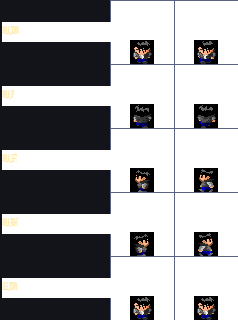
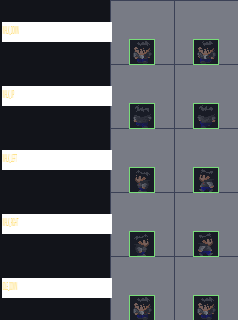
fix: 스프라이트 실제 도트 24x24 @(20,40) 명시 — LLM 프롬프트/주석/검증기 반영
- 아틀라스 셀 64x64는 패딩 포함 컨테이너, 실제 캐릭터는 24x24 도트
- 프롬프트: 8배 확대 작업법 + 셀 채우기 금지 + 마젠타 키컬러 금지 명시
- 주석 PNG: 도트 영역 녹색 상자 + 패딩 음영 표시
- validate_retouch_sheet.py: 셀별 도트 bbox 일치 검사 추가

diff --git a/remakes/sidol_godot/tools/convert/validate_retouch_sheet.py b/remakes/sidol_godot/tools/convert/validate_retouch_sheet.py
@@ -1,0 +1,128 @@
+"""그래픽 LLM 납품 스프라이트 시트 검증기.
+
+검사 항목:
+  1) 크기 = 원본 아틀라스와 동일 (128x320)
+  2) 배경 완전 투명 — 테두리에 불투명 픽셀 없음, 마젠타/키컬러 감지
+  3) 셀별 실루엣 드리프트 — 원본 같은 셀과 불투명 픽셀 수/중심/bbox 비교
+     (임계값 초과 시 재창작 판정)
+
+사용: python tools/convert/validate_retouch_sheet.py <납품.png>
+exit 0=통과 / 1=반려
+"""
+from __future__ import annotations
+import json
+import os
+import sys
+from PIL import Image
+
+ROOT = os.path.normpath(os.path.join(os.path.dirname(__file__), "..", ".."))
+ATLAS = os.path.join(ROOT, "assets", "sprites", "player_original.png")
+META = os.path.join(ROOT, "assets", "sprites", "player_original.json")
+DRIFT_LIMIT = 0.20   # 불투명 픽셀 수 허용 편차
+MAGENTA = (255, 0, 255)
+
+
+def main() -> None:
+    if len(sys.argv) < 2:
+        print("사용: python validate_retouch_sheet.py <납품.png>")
+        sys.exit(2)
+    sub_path = sys.argv[1]
+    errors: list[str] = []
+    warns: list[str] = []
+
+    orig = Image.open(ATLAS).convert("RGBA")
+    with open(os.path.join(ROOT, "assets", "sprites", "player_original.json"),
+              encoding="utf-8") as fh:
+        meta = json.load(fh)
+    cell = int(meta["cell"])
+    cols = int(meta["cols"])
+    rows = orig.height // cell
+
+    sub = Image.open(sub_path).convert("RGBA")
+    # 1) 크기
+    if sub.size != orig.size:
+        errors.append(f"크기 불일치: {sub.size} != {orig.size}")
+
+    # 2) 배경 — 테두리 불투명/마젠타 검사
+    px = sub.load()
+    w, h = sub.size
+    border_opaque = 0
+    magenta_cnt = 0
+    for x in range(w):
+        for y in (0, h - 1):
+            if px[x, y][3] > 0:
+                border_opaque += 1
+                if px[x, y][:3] == MAGENTA:
+                    magenta_cnt += 1
+    for y in range(h):
+        for x in (0, w - 1):
+            if px[x, y][3] > 0:
+                border_opaque += 1
+                if px[x, y][:3] == MAGENTA:
+                    magenta_cnt += 1
+    if border_opaque > 0:
+        errors.append(f"테두리에 불투명 픽셀 {border_opaque}개 — 배경 미투명")
+    if magenta_cnt > 0:
+        errors.append(f"마젠타(키컬러) 픽셀 {magenta_cnt}개 — 완전 투명으로 교체 필요")
+    # 내부 마젠타도 카운트(색 규약 위반)
+    for y in range(1, h - 1):
+        for x in range(1, w - 1):
+            if px[x, y][:3] == MAGENTA and px[x, y][3] > 0:
+                magenta_cnt += 1
+    if magenta_cnt > border_opaque:
+        warns.append(f"내부 마젠타 픽셀 다수: {magenta_cnt}")
+
+    # 3) 셀별 실루엣 드리프트 + 도트 영역(24x24 @ 오프셋) 검사
+    op = sub.load()
+    og = orig.load()
+
+    def content_bbox(img_px, box):
+        xs, ys = [], []
+        for y in range(box[1], box[3]):
+            for x in range(box[0], box[2]):
+                if img_px[x, y][3] > 0:
+                    xs.append(x - box[0])
+                    ys.append(y - box[1])
+        if not xs:
+            return None
+        return (min(xs), min(ys), max(xs) - min(xs) + 1, max(ys) - min(ys) + 1)
+
+    for r in range(rows):
+        for c in range(cols):
+            box = (c * cell, r * cell, (c + 1) * cell, (r + 1) * cell)
+            o_cnt = sum(1 for y in range(box[1], box[3]) for x in range(box[0], box[2])
+                        if og[x, y][3] > 0)
+            s_cnt = sum(1 for y in range(box[1], box[3]) for x in range(box[0], box[2])
+                        if op[x, y][3] > 0)
+            if o_cnt == 0 and s_cnt == 0:
+                continue
+            if o_cnt == 0 or s_cnt == 0:
+                errors.append(f"셀({r},{c}) 한쪽만 비어있음 orig={o_cnt} sub={s_cnt}")
+                continue
+            drift = abs(s_cnt - o_cnt) / o_cnt
+            ob = content_bbox(og, box)
+            sb = content_bbox(op, box)
+            if ob != sb:
+                errors.append(f"셀({r},{c}) 도트 영역 불일치: orig bbox={ob} "
+                              f"sub bbox={sb} (24x24 @(20,40) 유지 필요)")
+            flag = "ERR" if drift > DRIFT_LIMIT else "ok"
+            line = (f"셀({r},{c}) 픽셀수 orig={o_cnt} sub={s_cnt} "
+                    f"편차={drift:.0%} {flag}")
+            if drift > DRIFT_LIMIT:
+                errors.append(line)
+            elif drift > DRIFT_LIMIT / 2:
+                warns.append(line)
+
+    print("=== 납품 검증:", sub_path)
+    for w_ in warns:
+        print("  [warn]", w_)
+    if errors:
+        for e in errors:
+            print("  [ERR ]", e)
+        print(f"결과: 반려 ({len(errors)}건)")
+        sys.exit(1)
+    print("결과: 통과")
+
+
+if __name__ == "__main__":
+    main()

diff --git a/remakes/sidol_godot/tools/convert/export_player_sheet.py b/remakes/sidol_godot/tools/convert/export_player_sheet.py
@@ -38,7 +38,7 @@ def main() -> None:
     # 1) 원판 복사 (무손실 원본 전달)
     shutil.copyfile(ATLAS, os.path.join(OUT_DIR, "player_sheet_original.png"))
 
-    # 2) 주석 버전 - 격자 + 행 라벨 (좌측 여백에 라벨 밴드 추가)
+    # 2) 주석 버전 - 격자 + 행 라벨 + 실제 도트 영역(24x24) 표시
     band = 110
     ann = Image.new("RGBA", (atlas.width + band, atlas.height), (18, 20, 26, 255))
     ann.paste(atlas, (band, 0))
@@ -49,6 +49,23 @@ def main() -> None:
     for c in range(int(meta["cols"]) + 1):
         x = band + c * cell
         d.line([(x, 0), (x, atlas.height)], fill=(90, 100, 130, 255))
+    # 실제 도트 영역 표시(녹색 점선 상자) + 셀 대비 흐리게
+    overlay = Image.new("RGBA", ann.size, (0, 0, 0, 0))
+    od = ImageDraw.Draw(overlay)
+    for r in range(rows):
+        for c in range(int(meta["cols"])):
+            x0 = band + c * cell
+            y0 = r * cell
+            od.rectangle((x0, y0, x0 + cell - 1, y0 + cell - 1),
+                         fill=(40, 44, 60, 160))
+    ann = Image.alpha_composite(ann, overlay)
+    d = ImageDraw.Draw(ann)
+    for r in range(rows):
+        for c in range(int(meta["cols"])):
+            x0 = band + c * cell + 20
+            y0 = r * cell + 40
+            d.rectangle((x0 - 1, y0 - 1, x0 + 24, y0 + 24),
+                        outline=(120, 220, 120, 255))
     label = Image.new("RGBA", (band * 4, 20), (0, 0, 0, 0))
     ld = ImageDraw.Draw(label)
     anims = meta.get("animations", {})
@@ -85,7 +102,11 @@ def main() -> None:
 {subject}
 
 ## 입력 (첨부: player_sheet_original.png / 레이아웃 안내: player_sheet_annotated.png)
-- 크기: {atlas.width}x{atlas.height}px, 셀 {cell}x{cell}px, {meta['cols']}열 x {rows}행
+- 시트: {atlas.width}x{atlas.height}px, 셀 {cell}x{cell}px, {meta['cols']}열 x {rows}행
+- **실제 캐릭터 도트는 24x24px**이며 각 셀 내 (20,40) 오프셋에 위치한다.
+  셀의 나머지 영역은 전부 투명 패딩이다. 캐릭터를 키워 셀을 채우지 마라.
+- 권장 작업법: 각 셀의 24x24 도트만 잘라 **8배(192x192) 확대** 후 리터치하고,
+  납품 시 축소해 원래 오프셋에 배치한다.
 - 각 행 = 한 애니메이션, 좌→우가 프레임 순서:
 
 | 행 | 애니 | 프레임 | FPS |
@@ -94,13 +115,14 @@ def main() -> None:
 
 ## 절대 규칙 (위반 시 반려)
 1. **지오메트리 무변경**: 픽셀 위치·실루엣·머리-몸 비율을 한 픽셀도 옮기지 않는다.
+   캐릭터는 24x24 도트 그대로 — 크게 그리거나 셀을 채우면 즉시 반려된다.
 2. **그리드 무변경**: 납품은 반드시 동일 {atlas.width}x{atlas.height} PNG,
-   같은 셀 위치에 같은 프레임. 프레임 추가/삭제/이동 금지.
-3. **배경 완전 투명**: 셀 바깥은 alpha=0. 체커보드/흰색 채움 금지.
-4. **검정(0,0,0) 투명 처리 금지**: 캐릭터内部의 검정 디테일(눈·입·틈)은
+   같은 셀 위치에 같은 프레임, 캐릭터도 같은 (20,40) 오프셋.
+   프레임 추가/삭제/이동 금지.
+3. **배경 완전 투명**: 셀 바깥은 alpha=0. 체커보드/흰색/**마젠타 등 키컬러** 채움 금지.
+4. **검정(0,0,0) 투명 처리 금지**: 캐릭터 내부의 검정 디테일(눈·입·틈)은
    투명으로 만들지 말고 아웃라인색 또는 아주 어두운 남색으로 채워 유지한다.
 5. 안티에일리어싱 금지 / 그라데이션 금지(반드시 단계 밴딩).
-6. 작업은 4~8배 확대 상태에서, 납품은 1배({atlas.width}x{atlas.height}).
 
 ## 스타일 타깃 (후기 클래식 JRPG - 쯔바이/나르실리온/악튜러스풍)
 - 전체 인상: 어두운 VGA 레트로 -> 따뜻하고 채도 있는 필드 톤으로 격상

diff --git a/remakes/sidol_godot/assets/gen/prompts/player_retouch_prompt.md b/remakes/sidol_godot/assets/gen/prompts/player_retouch_prompt.md
@@ -9,7 +9,11 @@
 부싯돌: 1995년 한국 공대 새내기 남학생. 활달하고 허둥대지만 의리파. 잿빛 교복 재킷+청바지, 손에 작은 부싯돌 조각. 탑다운 JRPG 3/4 시점
 
 ## 입력 (첨부: player_sheet_original.png / 레이아웃 안내: player_sheet_annotated.png)
-- 크기: 128x320px, 셀 64x64px, 2열 x 5행
+- 시트: 128x320px, 셀 64x64px, 2열 x 5행
+- **실제 캐릭터 도트는 24x24px**이며 각 셀 내 (20,40) 오프셋에 위치한다.
+  셀의 나머지 영역은 전부 투명 패딩이다. 캐릭터를 키워 셀을 채우지 마라.
+- 권장 작업법: 각 셀의 24x24 도트만 잘라 **8배(192x192) 확대** 후 리터치하고,
+  납품 시 축소해 원래 오프셋에 배치한다.
 - 각 행 = 한 애니메이션, 좌→우가 프레임 순서:
 
 | 행 | 애니 | 프레임 | FPS |
@@ -22,13 +26,14 @@
 
 ## 절대 규칙 (위반 시 반려)
 1. **지오메트리 무변경**: 픽셀 위치·실루엣·머리-몸 비율을 한 픽셀도 옮기지 않는다.
+   캐릭터는 24x24 도트 그대로 — 크게 그리거나 셀을 채우면 즉시 반려된다.
 2. **그리드 무변경**: 납품은 반드시 동일 128x320 PNG,
-   같은 셀 위치에 같은 프레임. 프레임 추가/삭제/이동 금지.
-3. **배경 완전 투명**: 셀 바깥은 alpha=0. 체커보드/흰색 채움 금지.
+   같은 셀 위치에 같은 프레임, 캐릭터도 같은 (20,40) 오프셋.
+   프레임 추가/삭제/이동 금지.
+3. **배경 완전 투명**: 셀 바깥은 alpha=0. 체커보드/흰색/**마젠타 등 키컬러** 채움 금지.
 4. **검정(0,0,0) 투명 처리 금지**: 캐릭터 내부의 검정 디테일(눈·입·틈)은
    투명으로 만들지 말고 아웃라인색 또는 아주 어두운 남색으로 채워 유지한다.
 5. 안티에일리어싱 금지 / 그라데이션 금지(반드시 단계 밴딩).
-6. 작업은 4~8배 확대 상태에서, 납품은 1배(128x320).
 
 ## 스타일 타깃 (후기 클래식 JRPG - 쯔바이/나르실리온/악튜러스풍)
 - 전체 인상: 어두운 VGA 레트로 -> 따뜻하고 채도 있는 필드 톤으로 격상
